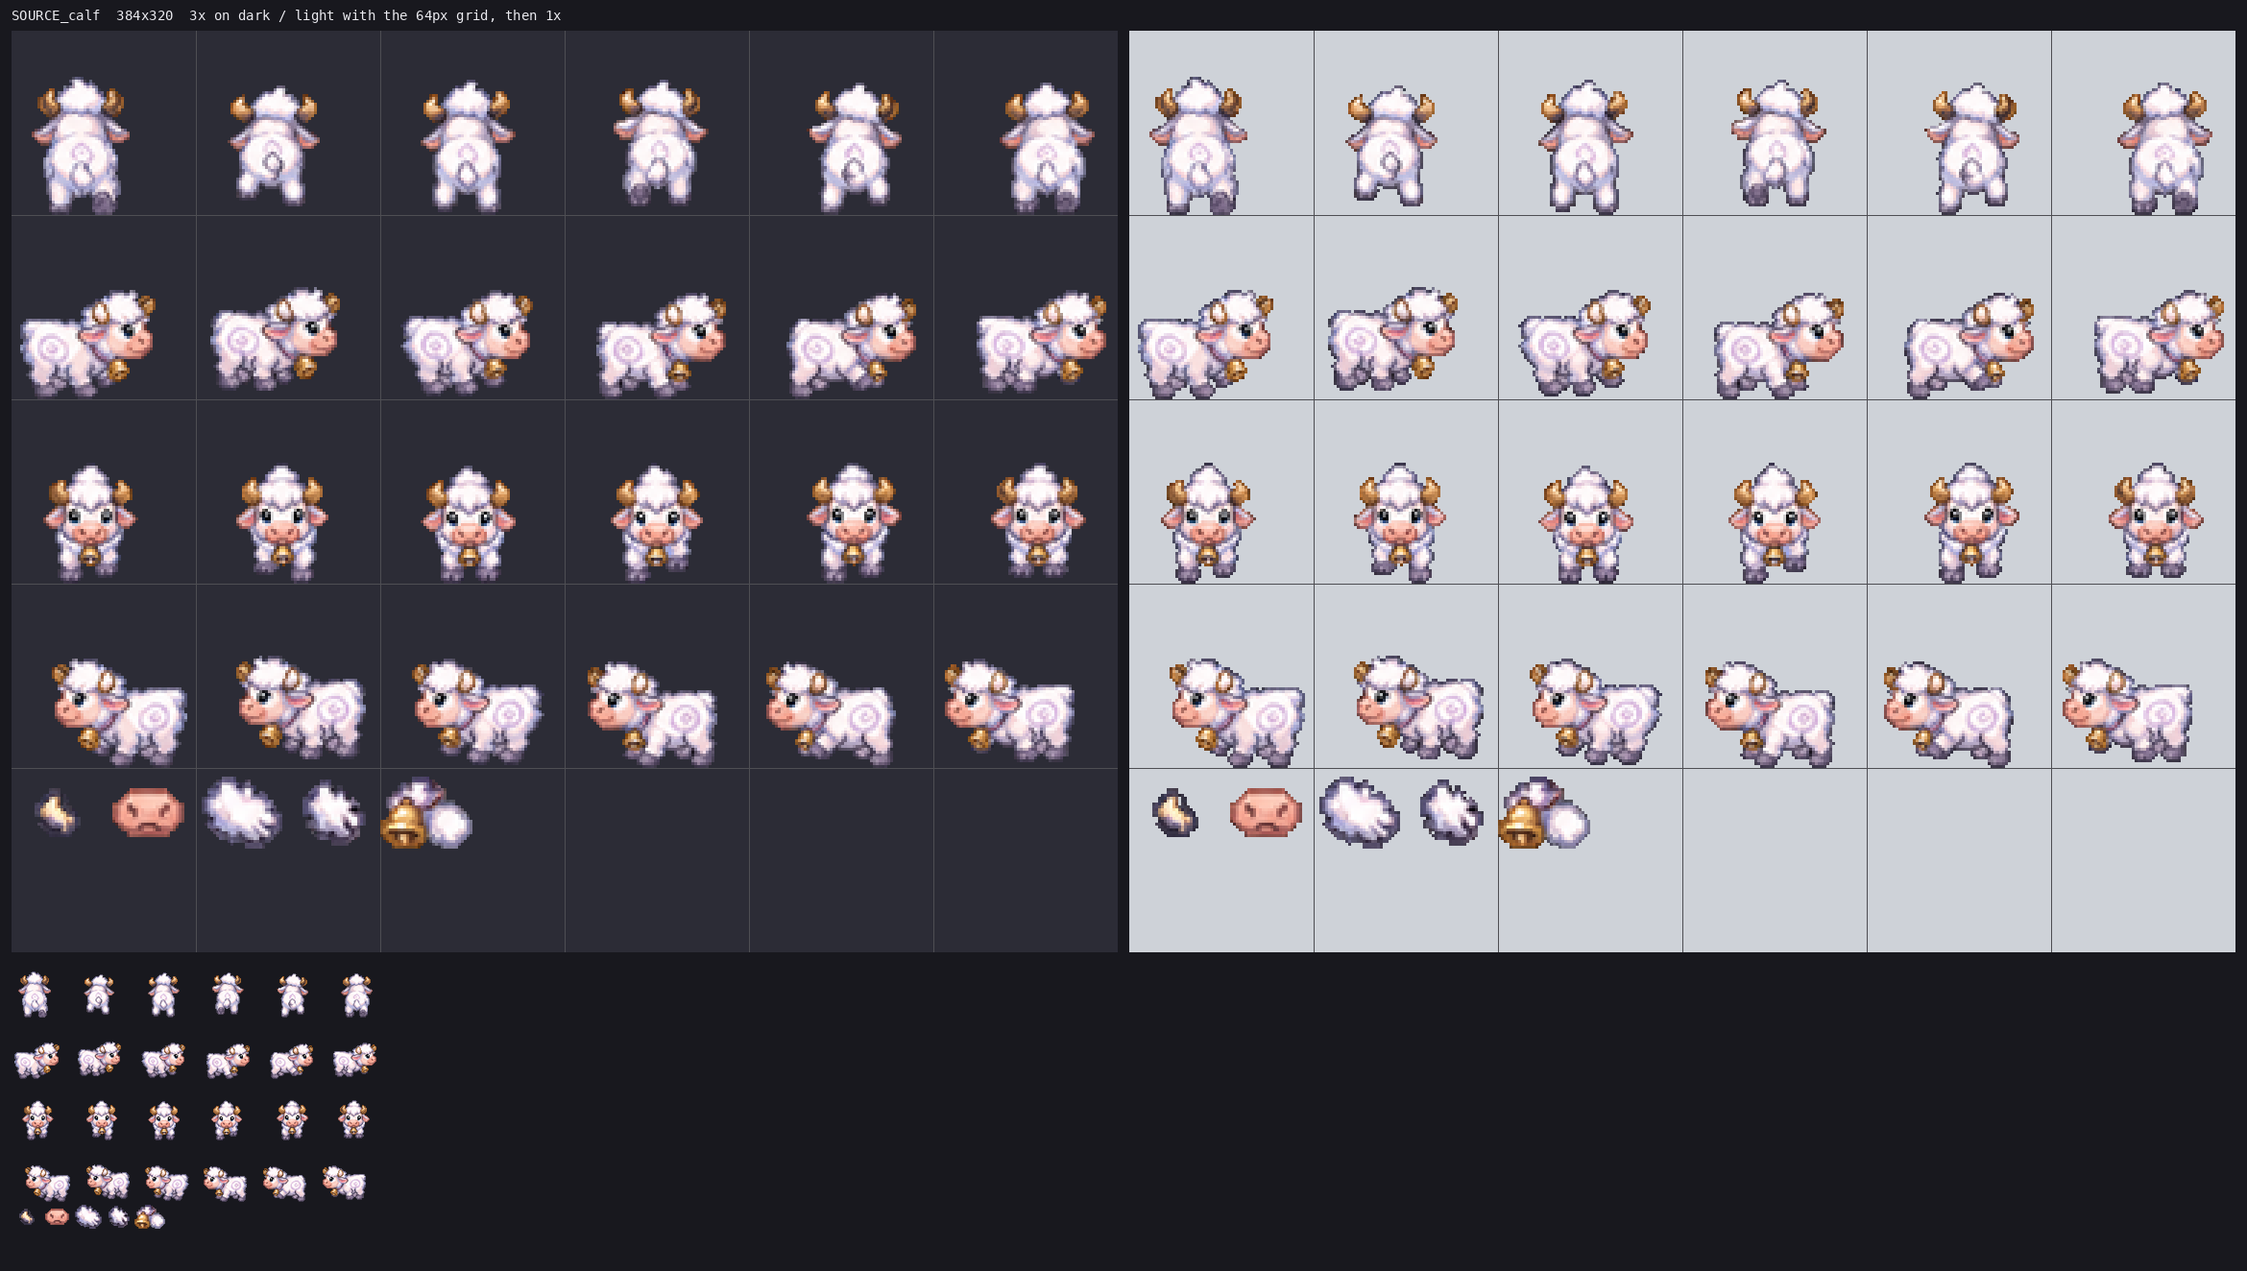
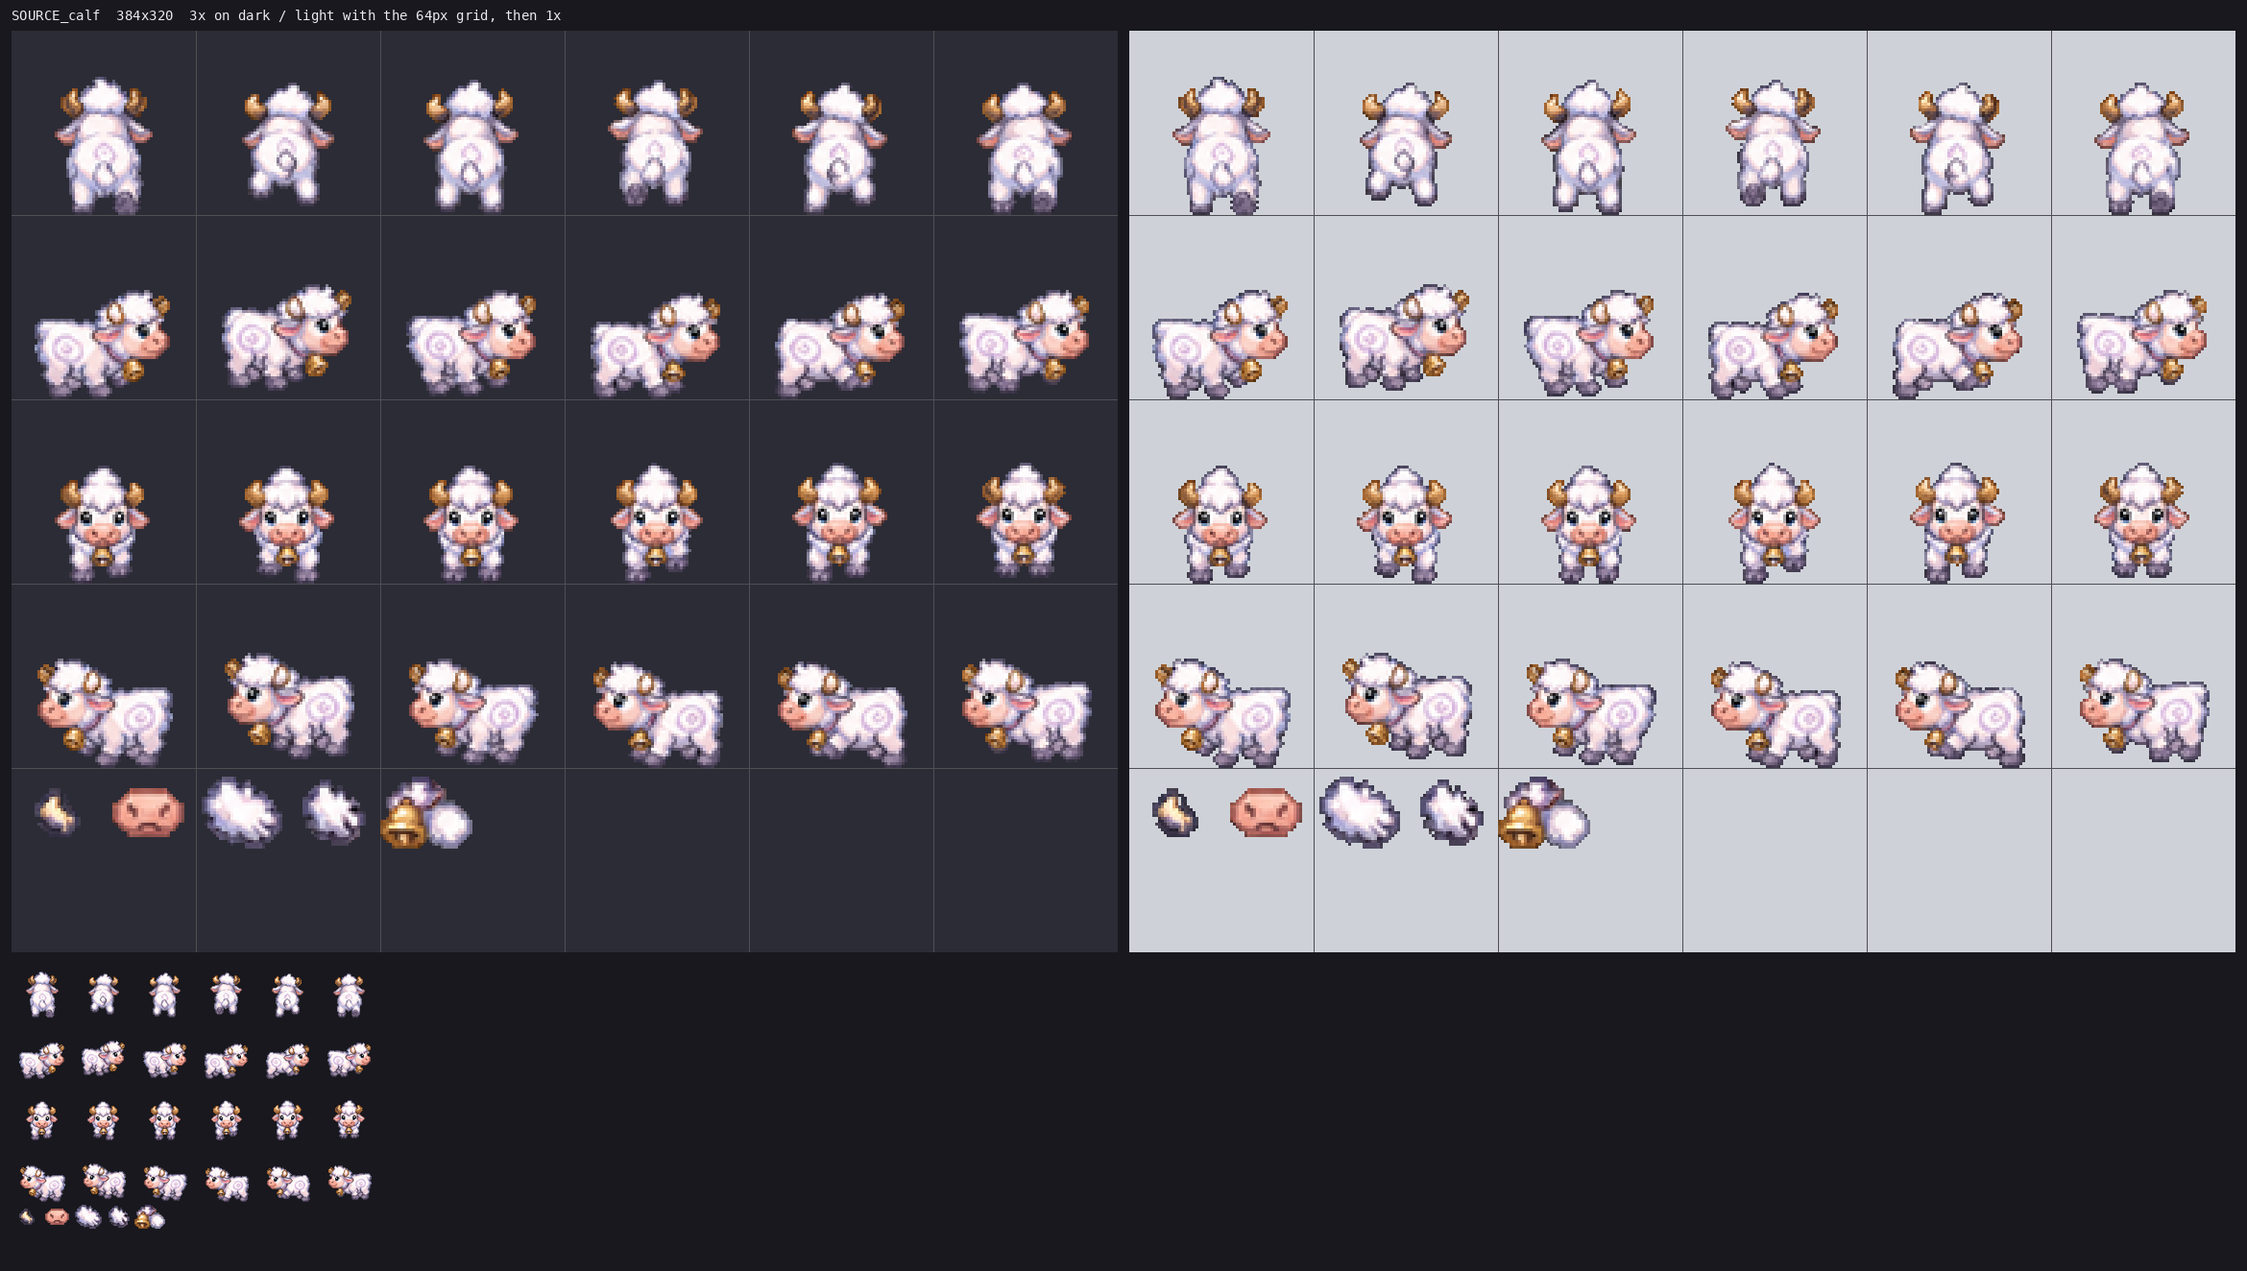
resheet_mob: place every frame in its own cell, and make sure it fits
"du musst eigentlich jeden einzelnen frame ausschneiden und dann einfach
ausrichten horizontal und vertikal im jeweiligen 64x64px ausschnitt" -- right,
and my previous version placed the whole row as one strip on the theory that
each frame's offset was animation worth preserving. On hand-drawn art it would
be; on a generated sheet it is the generator's spacing, and it left frames
straddling cell borders. Each frame is now cut and centred in its own cell.

Vertical stays measured from the ROW's floor rather than the frame's own,
which is the one thing here not to simplify: snapping each frame to its cell
floor drops a lifted hoof back to the ground and kills the step.

Chasing "rest auch nicht sauber" through the other three found three more
faults, all measured rather than guessed:

NOTHING GUARANTEED A FRAME FIT ITS CELL. The engine draws sprite(col,row,64),
so anything past the cell edge is not on the sheet at all -- it is gone, not
merely cropped in a preview. At the span scale: calf 47px, wraith 70, flowers
64x66, blue yak 115. The scale is now capped by the widest and tallest frame,
and the report says when the cap bound and what the span rule wanted.

FUSED COLUMNS. The blue yak had a 419px "frame" against its row's 216px
median -- two sprites touching, read as one, which then set the scale. A band
far wider than its siblings now forces the even split.

FOLDED ROWS. The same sheet gave only two row bands for four directions, and
[…]

diff --git a/tools/resheet_mob.py b/tools/resheet_mob.py
@@ -223,7 +223,7 @@ def split_even(lo, hi, n):
             for i in range(n)]
 
 
-def analyse(im, want_rows=ROWS, cols=COLS, alpha=40):
+def analyse(im, want_rows=ROWS, cols=COLS, alpha=40, force_rows=None):
     """-> ([[bbox per cell] per row], note).
 
     Detection first, EVEN SPLIT as the fallback -- and the fallback is the
@@ -236,30 +236,75 @@ def analyse(im, want_rows=ROWS, cols=COLS, alpha=40):
     notes = []
     rows_mask, _ = projections(im, alpha=alpha)
     row_bands = bands(rows_mask, im.height, gap_min=4, run_min=8)
-    # drop the gib strip and anything else short: the animation rows are the
-    # tall ones, and there are want_rows of them.
-    tall = [b for b in row_bands if (b[1] - b[0]) >= 0.5 * max(
-        (x[1] - x[0]) for x in row_bands)] if row_bands else []
-    if len(tall) == want_rows:
-        use_rows = tall
-        notes.append("rows detected")
-    else:
-        bb = opaque_bbox(im, (0, 0, im.width, im.height), alpha)
-        if bb is None:
-            return [], "nothing opaque"
-        top = tall[0][0] if tall else bb[1]
-        # the animation block ends where the short strip begins, if there is one
-        short = [b for b in row_bands if b not in tall and b[0] > top]
-        bottom = short[0][0] if short else bb[3]
-        use_rows = split_even(top, bottom, want_rows)
-        notes.append("rows split evenly (%d bands found, wanted %d)"
-                     % (len(row_bands), want_rows))
+    if force_rows:
+        # The escape hatch, and some sheets need it. Detection assumes the four
+        # animation rows are the tall bands and anything below them is the gib
+        # strip. A sheet whose bottom row holds EXTRA POSES (the blue yak ships
+        # sleeping and lying frames down there, at full size) breaks that
+        # assumption: the tall-band test counts five, the even split then spans
+        # the wrong range and folds two directions into one band. Rather than
+        # guess harder, --rows takes the boundaries from whoever can see them.
+        use_rows = [(force_rows[i], force_rows[i + 1])
+                    for i in range(len(force_rows) - 1)][:want_rows]
+        notes.append("rows given explicitly")
+    elif True:
+        # drop the gib strip and anything else short: the animation rows are
+        # the tall ones, and there are want_rows of them.
+        # 0.6, not 0.5: the blue yak's bottom strip is 220px because it holds
+        # extra poses at full size, against 432px animation bands. At 0.5 that
+        # strip counted as an animation row and the split came out 3+1 instead
+        # of 2+2. 0.6 keeps it out while still admitting a genuinely short
+        # direction row.
+        tall = [b for b in row_bands if (b[1] - b[0]) >= 0.6 * max(
+            (x[1] - x[0]) for x in row_bands)] if row_bands else []
+        if len(tall) == want_rows:
+            use_rows = tall
+            notes.append("rows detected")
+        else:
+            bb = opaque_bbox(im, (0, 0, im.width, im.height), alpha)
+            if bb is None:
+                return [], "nothing opaque", [], []
+            # Split each TALL BAND by its own height, not the whole block
+            # evenly. Two directions whose art touches read as one band twice
+            # the height of a single row, and splitting the block evenly then
+            # folds a direction into its neighbour -- measured on the blue yak,
+            # whose two bands are 432 and 416 px against a 212 px mean row.
+            # Dividing each band by that mean recovers 2 + 2 exactly.
+            if tall and len(tall) < want_rows:
+                total = sum(b[1] - b[0] for b in tall)
+                mean = total / float(want_rows)
+                use_rows, left_over = [], want_rows
+                for i, b in enumerate(tall):
+                    n = (left_over if i == len(tall) - 1
+                         else max(1, min(left_over - (len(tall) - 1 - i),
+                                         int(round((b[1] - b[0]) / mean)))))
+                    use_rows += split_even(b[0], b[1], n)
+                    left_over -= n
+                use_rows = use_rows[:want_rows]
+                notes.append("%d band(s) split by height into %d rows"
+                             % (len(tall), len(use_rows)))
+            else:
+                top = tall[0][0] if tall else bb[1]
+                short = [b for b in row_bands if b not in tall and b[0] > top]
+                bottom = short[0][0] if short else bb[3]
+                use_rows = split_even(top, bottom, want_rows)
+                notes.append("rows split evenly (%d bands found, wanted %d) -- "
+                             "if a direction looks folded into another, pass "
+                             "--rows" % (len(row_bands), want_rows))
 
     out = []
     even_cols = 0
     for (ry0, ry1) in use_rows:
         _, cols_mask = projections(im, (0, ry0, im.width, ry1), alpha)
         col_bands = bands(cols_mask, im.width, gap_min=3, run_min=6)
+        # A band far wider than its siblings is not one sprite, it is two that
+        # touch. Measured on the blue yak: one "frame" came out 419 px against
+        # the row's ~216 median, i.e. two fused, which then blew the scale.
+        if len(col_bands) == cols:
+            widths = sorted(b[1] - b[0] for b in col_bands)
+            median = widths[len(widths) // 2]
+            if widths[-1] > 1.5 * median:
+                col_bands = []
         if len(col_bands) != cols:
             bb = opaque_bbox(im, (0, ry0, im.width, ry1), alpha)
             if bb is None:
@@ -268,8 +313,11 @@ def analyse(im, want_rows=ROWS, cols=COLS, alpha=40):
             even_cols += 1
         cells = []
         for (cx0, cx1) in col_bands[:cols]:
-            cells.append(opaque_bbox(im, (cx0, ry0, cx1, ry1), alpha)
-                         or (cx0, ry0, cx1, ry1))
+            bb = opaque_bbox(im, (cx0, ry0, cx1, ry1), alpha) or (cx0, ry0, cx1, ry1)
+            # opaque_bbox already searches inside the column, so this only
+            # documents the invariant the scale depends on: a cell is never
+            # wider than its column.
+            cells.append((max(bb[0], cx0), bb[1], min(bb[2], cx1), bb[3]))
         out.append(cells)
     # The gib strip: the SHORT band below the animation rows, which the row
     # pass deliberately excluded. Its chunks are small and well separated, so
@@ -321,20 +369,28 @@ def resheet(im, rows, cell=CELL, cols=COLS, want_rows=ROWS, gib=None,
     """Scale the WHOLE sheet once so its content spans exactly cols*cell, then
     slide each row down into its own band.
 
-    This is the player's own method, and it is right where the first version
-    was wrong. That one cropped every sprite and re-centred it in its cell,
-    which destroys two things at once: the sprites come out ~20% too large
-    (measured 0.353 against the correct 0.288 on the plain yak), and every
-    sprite's HORIZONTAL OFFSET is thrown away -- but a walk cycle is built out
-    of those offsets. A hoof planted slightly forward on frame 2 is the
-    animation; centring each frame irons the walk flat.
+    Two separate decisions, and the player corrected me on both in turn.
 
-    So: one scale for the whole image, taken from the full content width, and
-    the only per-row freedom is a VERTICAL slide, because the rows are what
-    generators get wrong. Measured on the plain yak, the four rows individually
-    want 0.2995 / 0.2927 / 0.3048 / 0.2931 and the whole image wants 0.2876 --
-    close enough that one number serves, and using one is what keeps the four
-    directions the same animal.
+    SCALE is global: one factor from the full content width, never per sprite.
+    My first version fitted each sprite to its cell and came out ~20% too large
+    (0.353 against the correct 0.288 on the calf). One factor is also what keeps
+    the four directions the same animal. Measured on the calf, the four rows
+    individually want 0.2995 / 0.2927 / 0.3048 / 0.2931 against the whole
+    image's 0.2876 -- close enough that one number serves.
+
+    PLACEMENT is per frame: "du musst eigentlich jeden einzelnen frame
+    ausschneiden und dann einfach ausrichten horizontal und vertikal im
+    jeweiligen 64x64px ausschnitt". My second version placed the whole row as
+    one strip to preserve each frame's offset, on the theory that those offsets
+    are the walk cycle. On hand-drawn art they would be; on a generated sheet
+    they are the generator's spacing accidents, and keeping them leaves frames
+    straddling cell borders. So each frame is cut out and centred in its own
+    cell.
+
+    Vertical is NOT per frame, and that is the one thing not to simplify: every
+    frame keeps its height above the ROW's floor line. Snapping each frame to
+    its own cell floor would drop a lifted hoof back to the ground and kill the
+    step.
     """
     usable = rows[:want_rows]
     if len(usable) < want_rows:
@@ -343,7 +399,18 @@ def resheet(im, rows, cell=CELL, cols=COLS, want_rows=ROWS, gib=None,
 
     left = min(b[0] for r in usable for b in r)
     right = max(b[2] for r in usable for b in r)
-    scale = (cols * cell) / float(right - left)
+    span_scale = (cols * cell) / float(right - left)
+
+    # The span rule alone does NOT guarantee a frame fits its cell, and a frame
+    # that does not fit is not merely cropped in the preview -- the engine draws
+    # sprite(col, row, 64), so anything past the cell edge is not on the sheet
+    # at all. Measured at the span scale: calf 47px (fine), wraith 70px,
+    # flowers 64x66, blue yak 115px. So the widest and tallest frame cap it.
+    wmax = max(b[2] - b[0] for r in usable for b in r)
+    hmax = max(b[3] - b[1] for r in usable for b in r)
+    fit_scale = min(cell / float(wmax), cell / float(hmax))
+    scale = min(span_scale, fit_scale)
+    capped = scale < span_scale - 1e-6
 
     # Cut the rows apart by BLOB OWNERSHIP before cropping, so a neighbour's
     # overhang does not ride along in the rectangle.
@@ -352,31 +419,30 @@ def resheet(im, rows, cell=CELL, cols=COLS, want_rows=ROWS, gib=None,
         layers, _ = isolate_rows(im, row_spans[:want_rows], alpha)
 
     sheet = Image.new("RGBA", TARGET, (0, 0, 0, 0))
-    strips = []
     for ri, row in enumerate(usable):
         src = layers[ri] if layers else im
-        top = min(b[1] for b in row)
-        bot = max(b[3] for b in row)
-        # Crop to THIS ROW's own horizontal extent, not the sheet's. A row that
-        # sits further left than the others would otherwise be dragged off the
-        # canvas -- which is exactly what happened on the plain yak's LEFT row.
-        rl = min(b[0] for b in row)
-        rr = max(b[2] for b in row)
-        strip = src.crop((rl, top, rr, bot))
-        sw = max(1, round((rr - rl) * scale))
-        sh = max(1, round((bot - top) * scale))
-        strip = strip.resize((sw, sh), Image.LANCZOS)
-        strips.append(strip)
+        # The row's own floor: every frame keeps its height ABOVE this line, so
+        # a lifted hoof stays lifted instead of dropping to the cell floor.
+        floor = max(b[3] for b in row)
+        for ci, bb in enumerate(row[:cols]):
+            frame = src.crop(bb)
+            nw = max(1, round(frame.width * scale))
+            nh = max(1, round(frame.height * scale))
+            frame = frame.resize((nw, nh), Image.LANCZOS)
+            # Horizontal: centred in its OWN cell -- the player's instruction,
+            # and right for a generated sheet, where the gaps between frames are
+            # accidents of the generator rather than animation.
+            dx = ci * cell + (cell - nw) // 2
+            # Vertical: the frame's distance from the row's floor, preserved.
+            lift = round((floor - bb[3]) * scale)
+            dy = ri * cell + cell - nh - lift
+            dy = max(ri * cell, min(dy, ri * cell + cell - nh))
+            sheet.alpha_composite(frame, (dx, dy))
 
-    for ri, strip in enumerate(strips):
-        # Vertical: feet on the band's floor. Horizontal: the row is centred on
-        # the sheet, so only the row's DRIFT is corrected -- every sprite keeps
-        # its offset within the row, and those offsets are the walk cycle.
-        dy = ri * cell + (cell - strip.height)
-        dx = (cols * cell - strip.width) // 2
-        sheet.alpha_composite(strip, (dx, dy))
-
-    note = "one scale %.4f over the full %dpx content width" % (scale, right - left)
+    note = "scale %.4f" % scale
+    note += (" (capped so the widest %dpx frame fits a %dpx cell; the span rule "
+             "wanted %.4f)" % (wmax, cell, span_scale)) if capped else (
+             " from the full %dpx content width" % (right - left))
     if layers:
         note += "; rows isolated by blob ownership"
 
@@ -446,6 +512,10 @@ def main():
                     help="report the detected rows and sprites, write nothing")
     ap.add_argument("--tol", type=int, default=42,
                     help="background keying tolerance (default 42)")
+    ap.add_argument("--rows", default=None,
+                    help="explicit row boundaries as y0,y1,y2,y3,y4 (5 numbers "
+                         "for 4 rows). Use when --inspect shows a direction "
+                         "folded into another band.")
     ap.add_argument("--no-isolate", action="store_true",
                     help="skip blob-ownership row separation (faster; only "
                          "safe when the rows genuinely do not overlap)")
@@ -463,7 +533,8 @@ def main():
     print("%s  %dx%d" % (os.path.basename(args.src), im.width, im.height))
     print("  %s" % note)
 
-    rows, how, gib, spans = analyse(keyed, alpha=args.alpha)
+    force = [int(v) for v in args.rows.split(",")] if args.rows else None
+    rows, how, gib, spans = analyse(keyed, alpha=args.alpha, force_rows=force)
     print("  %s" % how)
     for i, r in enumerate(rows):
         hs = [b[3] - b[1] for b in r]

diff --git a/art-drafts/resheet-2026-09-02/README.md b/art-drafts/resheet-2026-09-02/README.md
@@ -47,6 +47,24 @@ The first version was wrong in three ways; all three are fixed in
    stray piece from the row above goes back to the row above. `--no-isolate`
    skips it.
 
+5. **Frames were placed as a row strip, not one by one.** *"du musst
+   eigentlich jeden einzelnen frame ausschneiden und dann einfach ausrichten
+   horizontal und vertikal im jeweiligen 64x64px ausschnitt"*. Each frame is now
+   cut out and centred in its own cell. Vertical is still measured from the
+   ROW's floor, not the frame's own — snapping each frame to its cell floor
+   would drop a lifted hoof back to the ground and kill the step.
+6. **Nothing guaranteed a frame FIT its cell.** The engine draws
+   `sprite(col, row, 64)`, so anything past the cell edge is not on the sheet at
+   all. At the span scale the frames measured: calf 47 px (fine), wraith 70,
+   flowers 64×66, blue yak **115**. The scale is now capped by the widest and
+   tallest frame.
+7. **Fused columns and folded rows.** The blue yak had a 419 px "frame" (two
+   sprites touching, against a 216 px median) and only two row bands for four
+   directions. A column band far wider than its siblings now forces an even
+   split, and a tall band is divided by its own height — 432 and 416 px against
+   a 212 px mean row recovers 2 + 2 exactly. `--rows y0,y1,y2,y3,y4` remains as
+   the escape hatch.
+
 `--mirror-left` was added for the player's other fix: building the LEFT row by
 mirroring RIGHT cell by cell, when a generator drew the two side views as two
 different animals. Cell by cell, never the whole strip — flipping the strip
